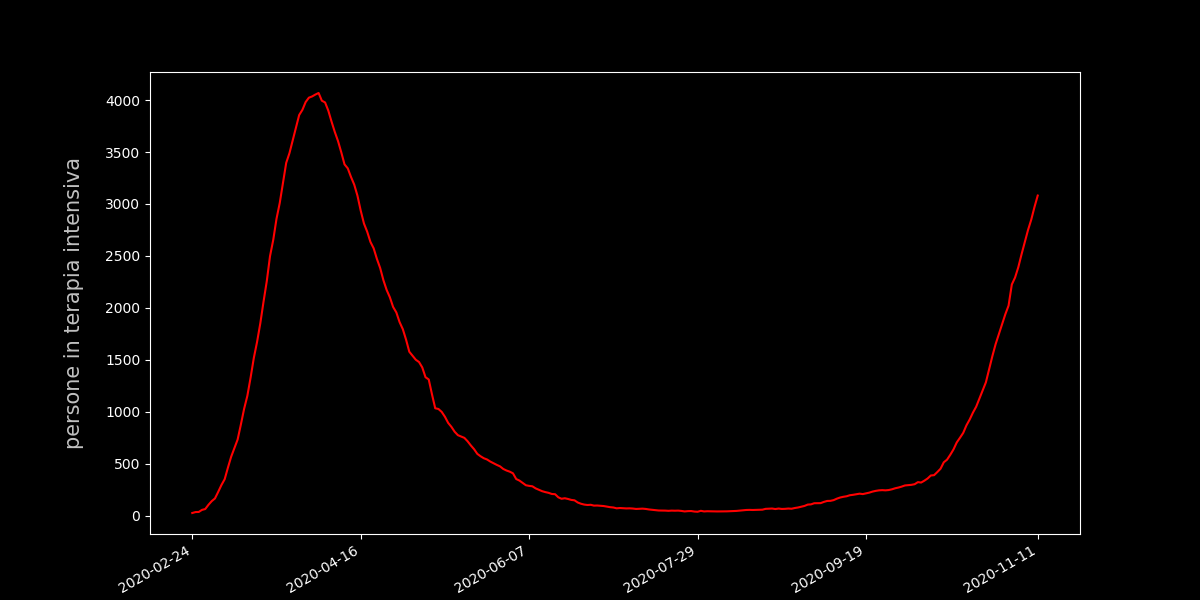
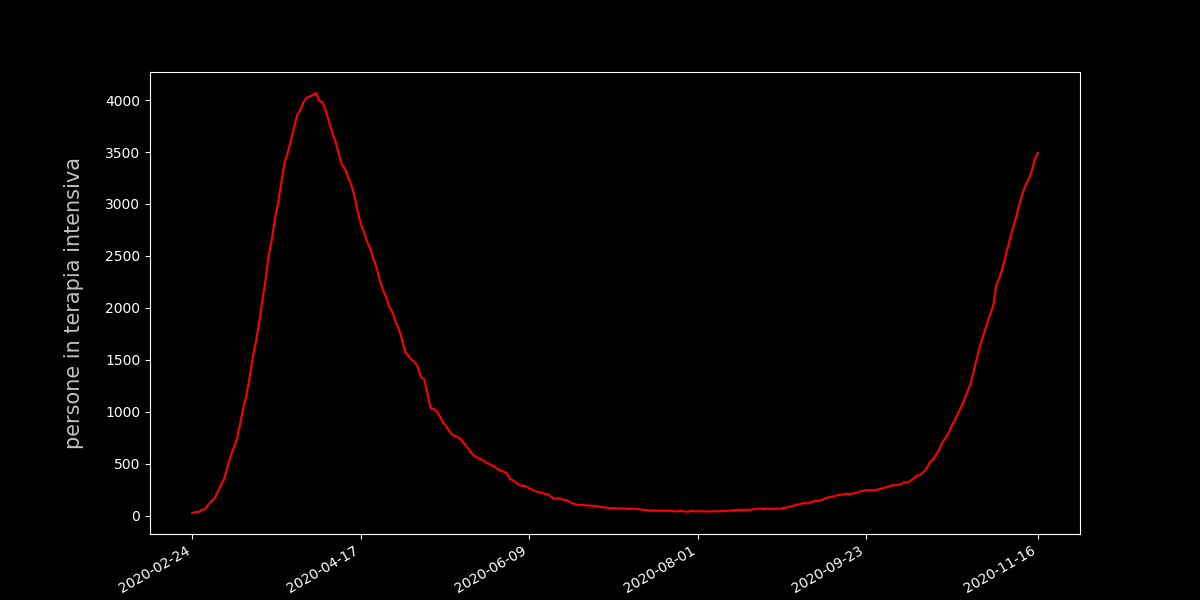
solve bug: corrupted dates in dataset

diff --git a/functions/dataset.py b/functions/dataset.py
@@ -74,6 +74,9 @@ class MyDF(object):
         bd = date(*[int(x) for x in zero_date.split('-')])
         tmp2 = []
         for dd in tmp:
+            # solve bug: dataset dates have _ instead of -
+            dd = '-'.join(dd.split('_'))
+
             d = date(*[int(x) for x in dd.split('-')])
             tmp2.append((d-bd).days)
 

diff --git a/README.md b/README.md
@@ -1,7 +1,7 @@
 
 # COVID-autumn-forecast
 Alcune Statistiche sul covid in Italia, Francia & Inghilterra
-ultimo aggiornamento --> 2020-11-11
+ultimo aggiornamento --> 2020-11-17
 Fonte dei dati sull' italia: [pcm-dpc covid repository](https://github.com/pcm-dpc/COVID-19/blob/master/dati-json/dpc-covid19-ita-regioni.json)
 Altre fonti: [Francia]('https://raw.githubusercontent.com/opencovid19-fr/data/master/dist/chiffres-cles.json'),  [Regno Unito](https://api.coronavirus.data.gov.uk/v1)
 
@@ -20,15 +20,15 @@ L'Italia il 18 marzo 2020
 ```
 ```
 L'Italia 3 giorni prima
-    terapia_intensiva:      2749
-    nuovi_positivi:         32616
-    totale_ospedalizzati:   29189
+    terapia_intensiva:      3230
+    nuovi_positivi:         40902
+    totale_ospedalizzati:   34144
 ```
 ```
-L'Italia pochi giorni fa (2020-11-11)
-    terapia_intensiva:      3081
-    nuovi_positivi:         32961
-    totale_ospedalizzati:   32525
+L'Italia pochi giorni fa (2020-11-17)
+    terapia_intensiva:      3492
+    nuovi_positivi:         27354
+    totale_ospedalizzati:   36028
 ```
 
 ___
